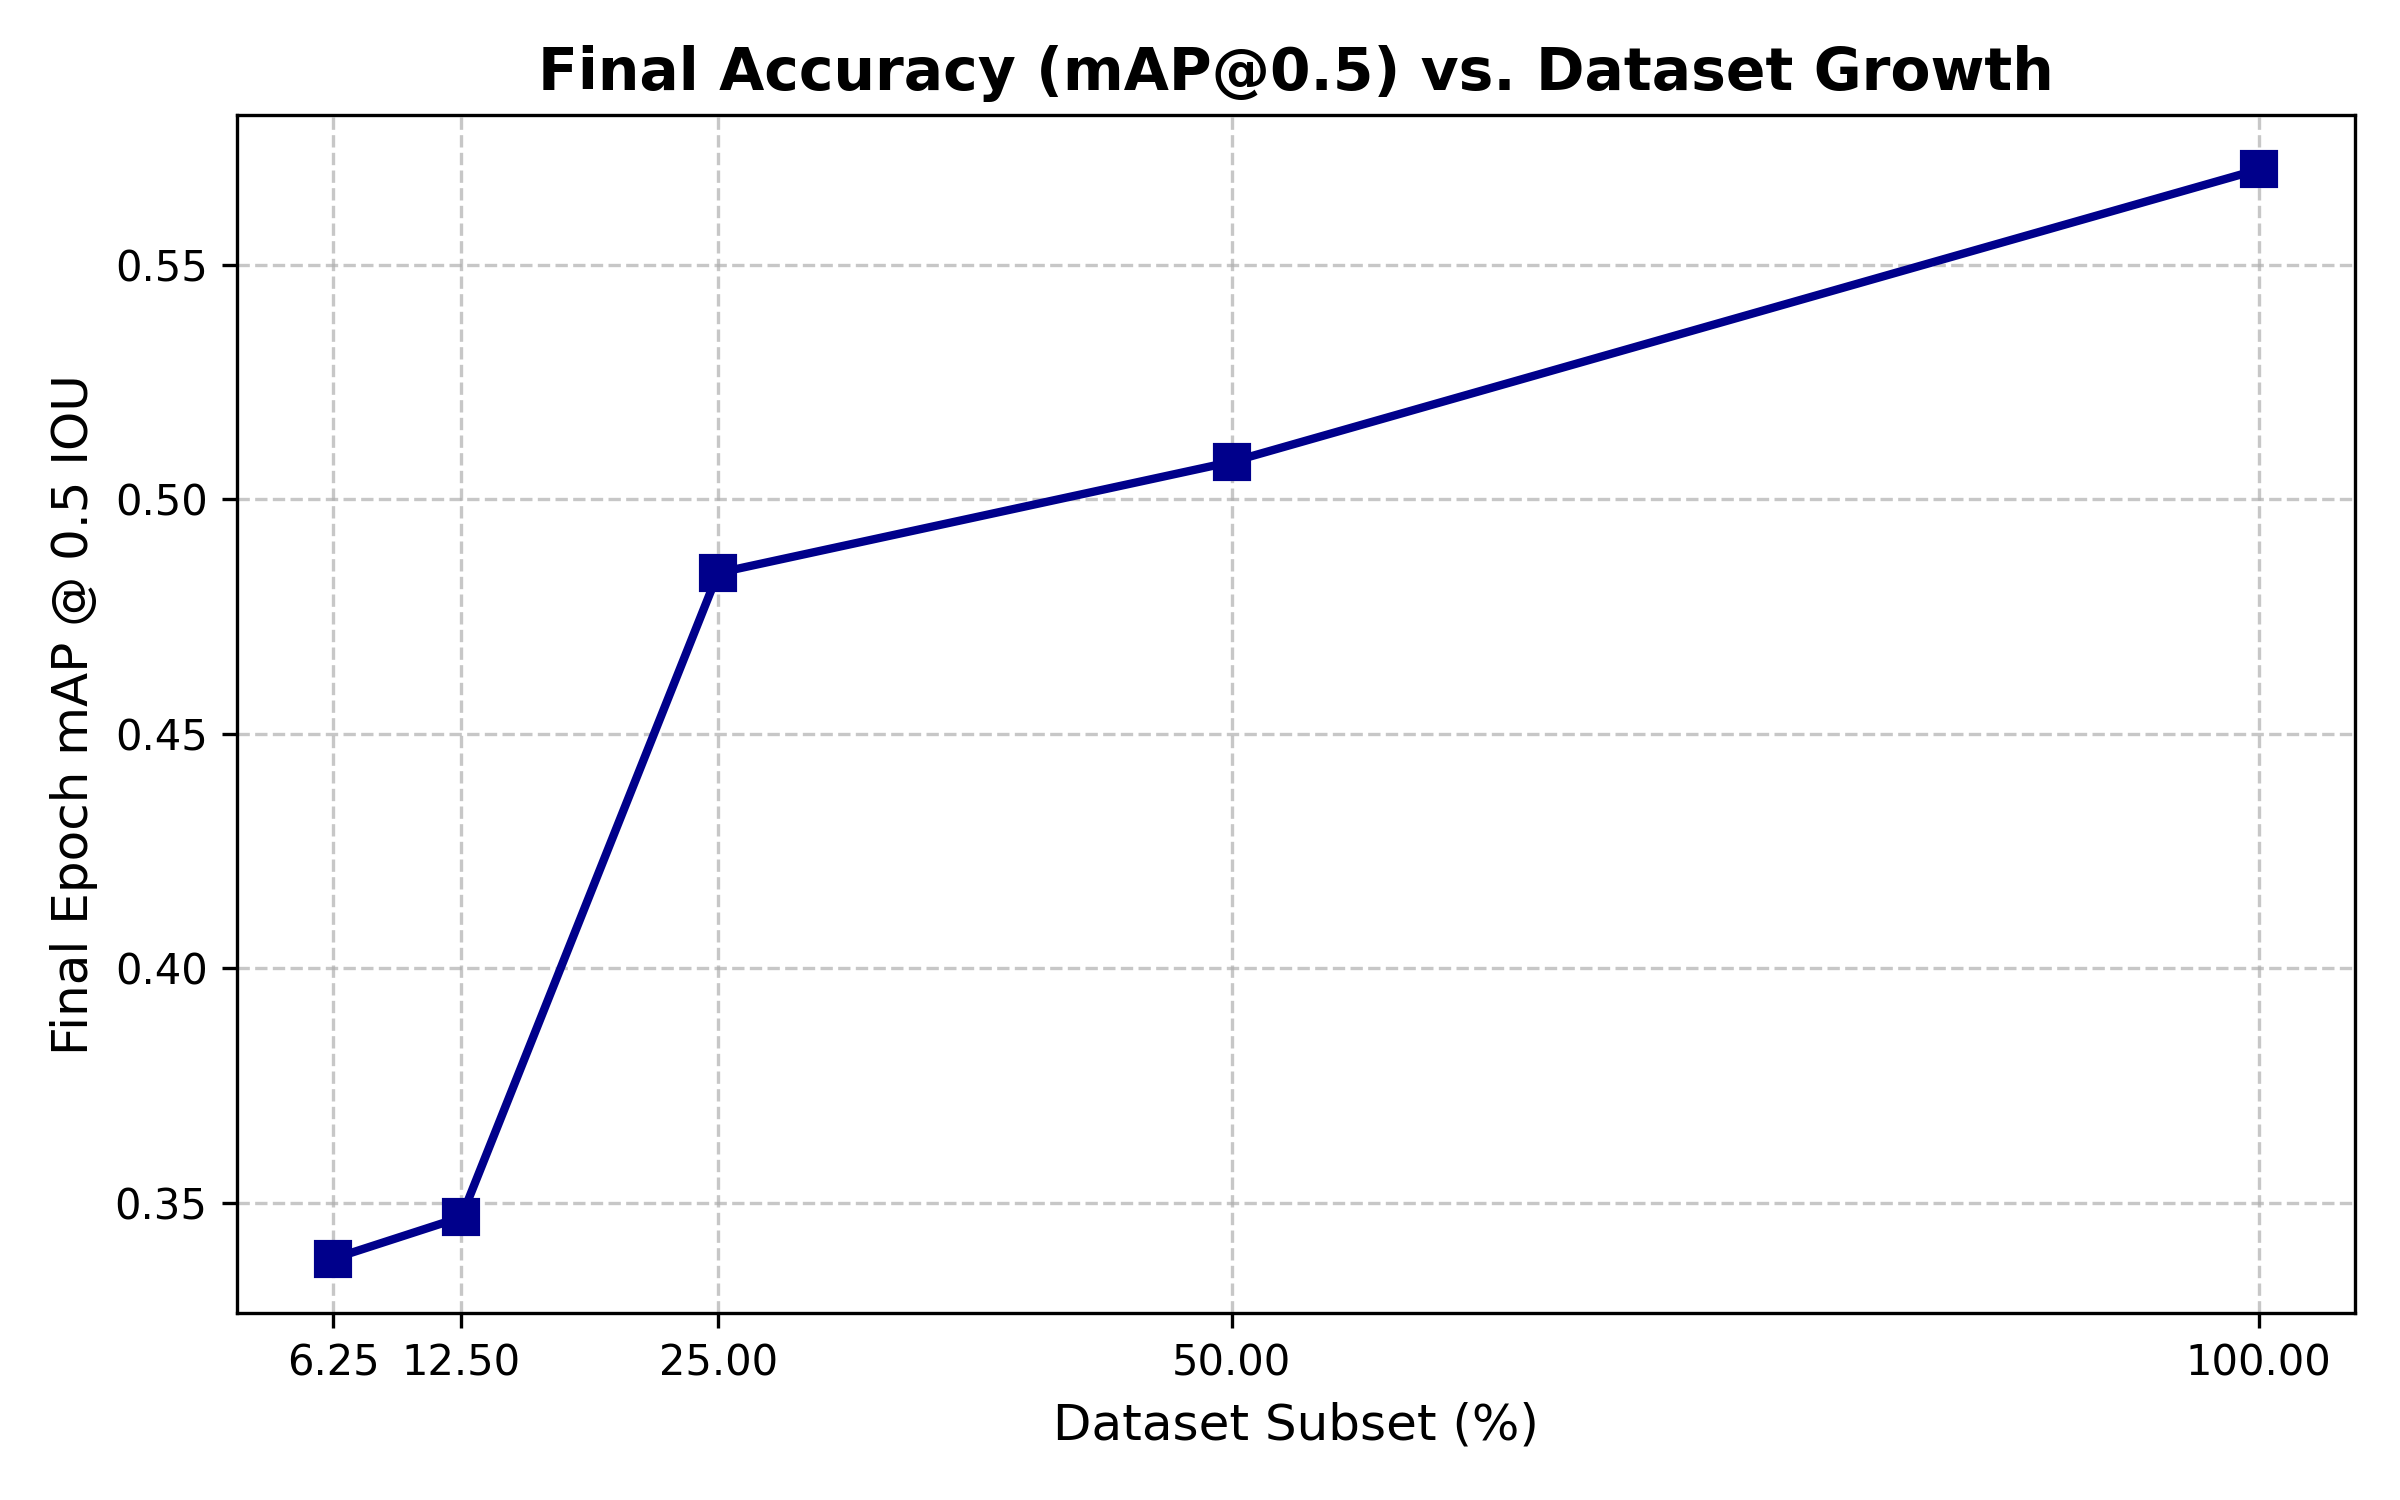
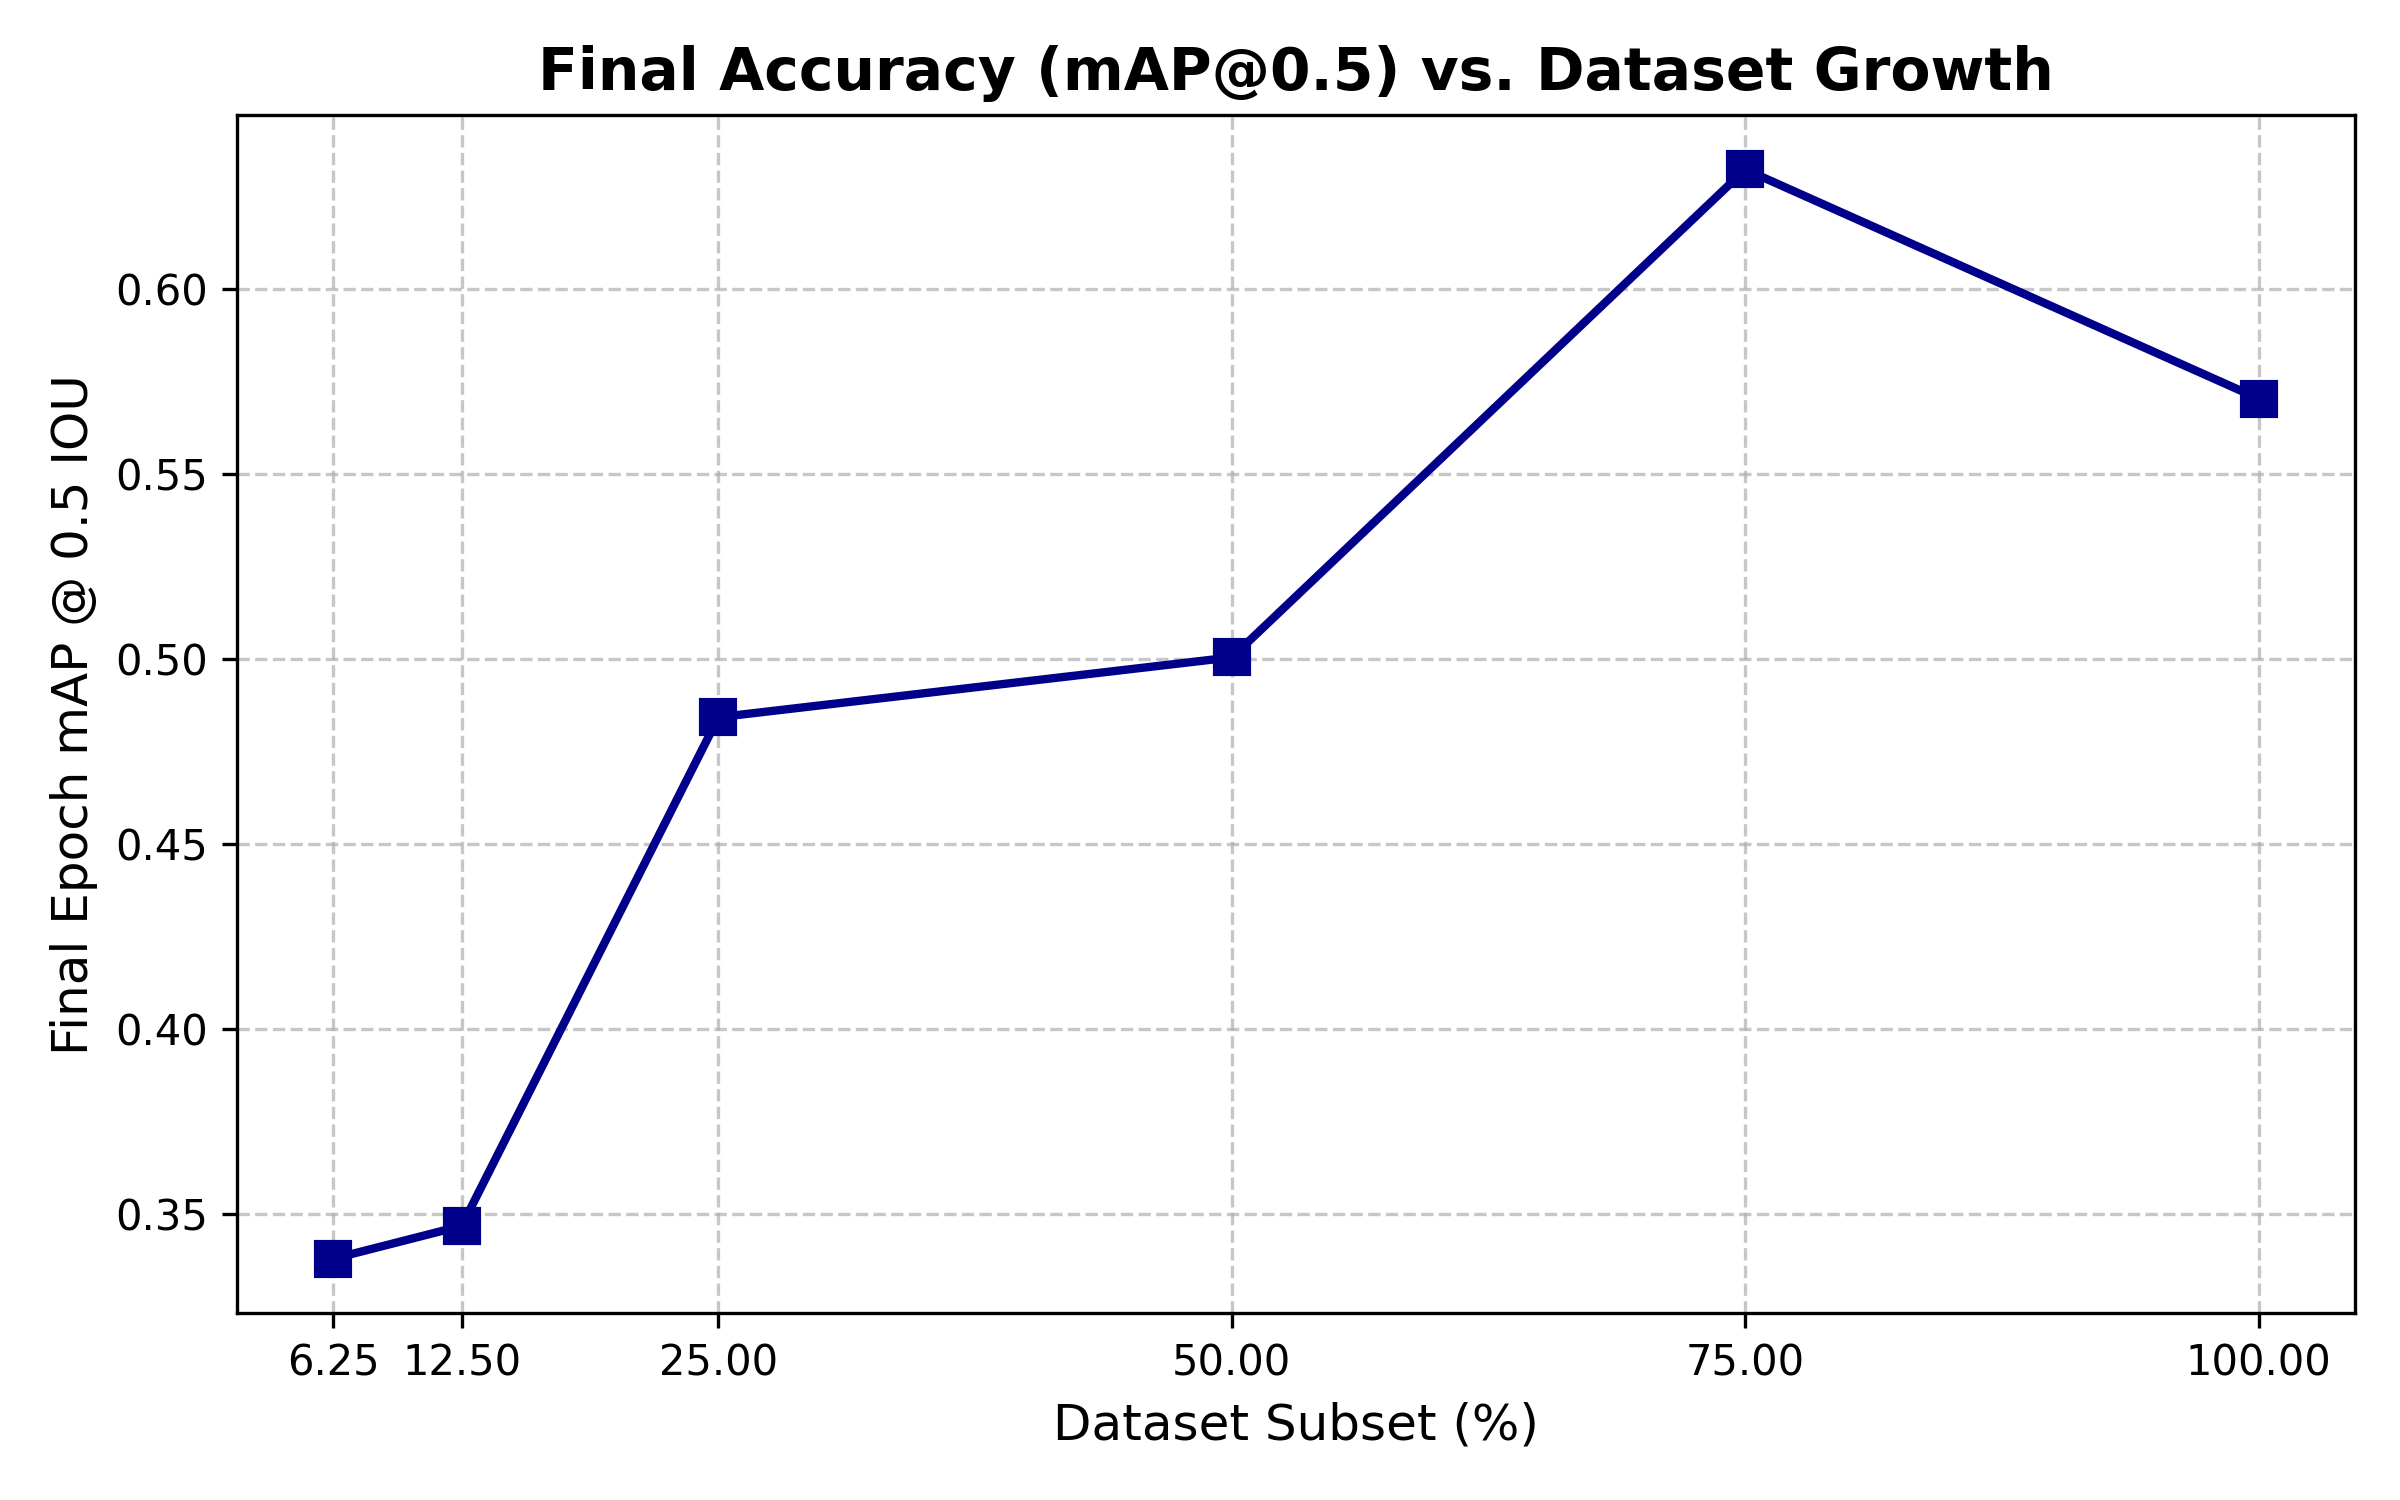
modified positions in folder and added new trainings

diff --git a/evaluation/PennAction/plot_training_metrics.py b/evaluation/PennAction/plot_training_metrics.py
@@ -39,6 +39,7 @@ def parse_training_logs(file_path):
                 current_map = float(map_match.group(1))
                 continue
 
+            epoch_match = epoch_pattern.search(line)
             if epoch_match and current_map is not None and current_subset is not None:
                 epoch = int(epoch_match.group(1))
                 
@@ -110,7 +111,7 @@ def plot_final_map_vs_dataset(data):
     plt.show()
 
 if __name__ == "__main__":
-    log_file = "/home/ludovico/workspace/AA-STAL/evaluation/PennAction/whole_training_log.txt"
+    log_file = "/home/ludovico/workspace/AA-STAL/evaluation/PennAction/whole_training.txt"
     
     parsed_data = parse_training_logs(log_file)
     
